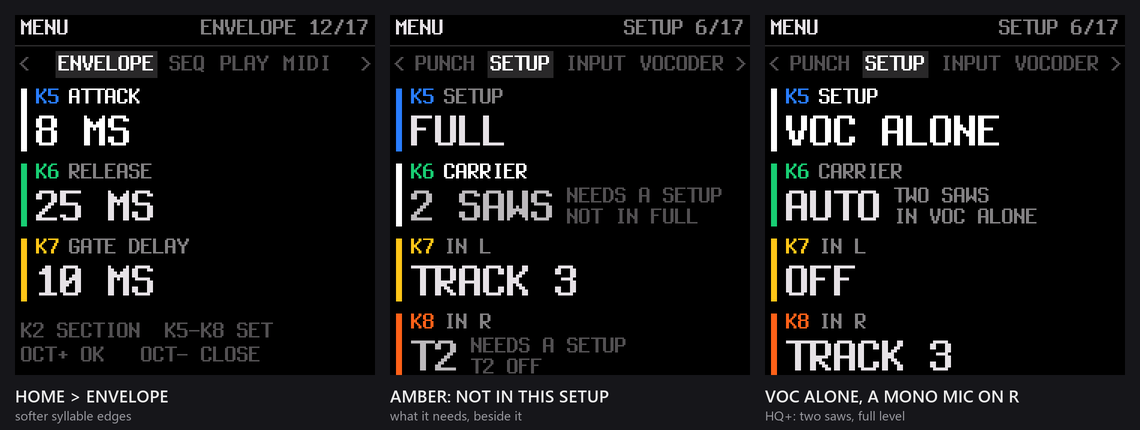
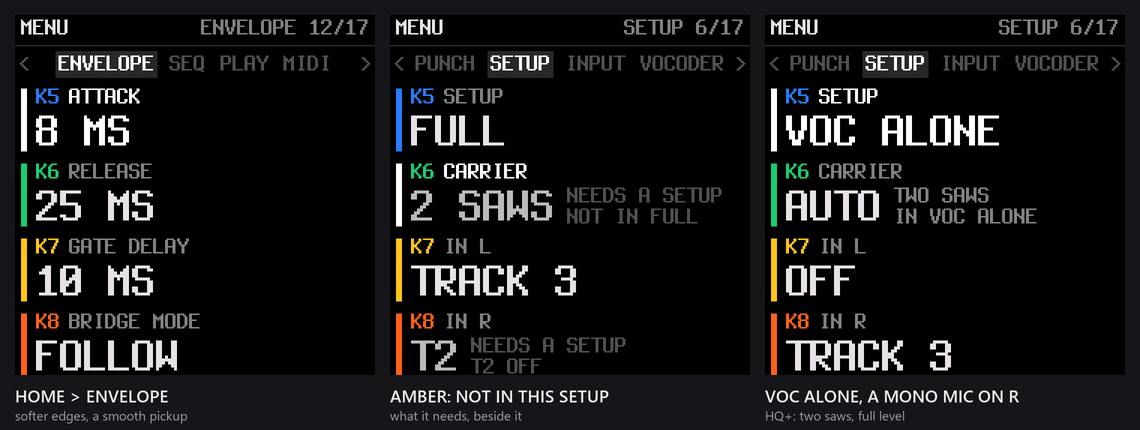
feat(mewcoder): ENVELOPE > BRIDGE MODE (FIXED / FOLLOW): a smooth pickup into each word
At a high BRIDGE the pauses played the carrier louder than the vocoded words, so each word arrived as a
drop, and the bridge left a short hole as the bands opened: a rough, choppy edge to the syllables.

FOLLOW keeps the pauses below the recent words (the bridge's gain moves only in a gap; BRIDGE is the most
it plays) and moves the pause value at the bands' own ATTACK / RELEASE times. On a steady chord and 39
syllables at BRIDGE 0 dB: the gaps from 11 dB over the words to 8 dB under them, the hole 2.7 -> 1.6 dB.

FIXED, the default, is bit-exact with d49a9ca at both rates. Kept in a spare vocset byte (the object stays
480 bytes; older saves load FIXED); the editor's Vocoder tab; console voc_brmode / voc_follow_q15; a host
test at both rates; VOCODER.md 2.5, the menus, troubleshooting; the ENVELOPE screenshot.

Changed region(s): [[0.0, 0.7256, 0.2456, 0.8767], [0.0307, 0.9372, 0.1535, 0.9977]]

diff --git a/web/editor.html b/web/editor.html
@@ -7882,7 +7882,8 @@ const OB = {
     ["colour", 65, "COLOUR", Array.from({ length: 11 }, (_, i) => [i, `${i * 10} %`]), 10],
     ["blend", 66, "BLEND", ["SUM", "FILL"], 0],
     ["eatt", 472, "ATTACK", ["3 MS", "5 MS", "8 MS", "12 MS", "20 MS", "30 MS"], 0],
-    ["erel", 473, "RELEASE", ["8 MS", "15 MS", "25 MS", "40 MS", "60 MS", "100 MS"], 0]],
+    ["erel", 473, "RELEASE", ["8 MS", "15 MS", "25 MS", "40 MS", "60 MS", "100 MS"], 0],
+    ["brmode", 477, "BRIDGE MODE", ["FIXED", "FOLLOW"], 0]],
   page: [["byp", 146, "BYPASS", ["OFF", "REPLACEMENT", "SPEECH"], 2], ["brsel", 147, "BRIDGING", ["OFF", "SUM", "INDIVIDUAL"], 1],
     ["addsel", 148, "ADDITION", ["OFF", "SUM", "INDIVIDUAL"], 1], ["actl", 149, "AUTOCONTROL", ["OFF", "ON"], 0],
     ["nzc", 151, "NOISE BLEND", Array.from({ length: 21 }, (_, i) => [100 - i * 5, `${i * 5} %`]).reverse(), 0]] },

diff --git a/firmware/src/smk_vocoder.h b/firmware/src/smk_vocoder.h
@@ -256,6 +256,7 @@ static struct {                          /* the analysis (core 0, fx.c mix_block
     uint8_t voiced;                      /* the detector's state (hysteresis) */
     int32_t acg_now;                     /* AUTOCONTROL's gain as the last block ended (Q12): each block ramps from it */
     uint8_t rest, rest_zero;             /* the bands resting (SILENCE > ANALYSIS); voc_ab buffers still to clear */
+    int32_t psm;                         /* BRIDGE MODE FOLLOW: the pause value, moved at the bands' times */
     uint32_t quiet;                      /* samples below THRESHOLD in a row */
     uint32_t blocks, uv_blocks, pause_blocks, rest_blocks;   /* (the console) */
 } voa;
@@ -281,6 +282,8 @@ static struct {                          /* the synthesis (track 3's core): the 
     int32_t agc_env, agc_g;              /* the carrier AGC: its level (mean |x|), its gain (Q15, 1.0 = 32767) */
     int32_t bk[VOC_NB], cf;              /* BRIDGE TONE as the last block ended: each band's bridge, COLOUR's factor (the
                                           * next block ramps from them: no zipper) */
+    int32_t bfa, lsp, lgap;              /* BRIDGE MODE FOLLOW: the bridge's gain taken off (Q15, 0: BRIDGE's own), the
+                                          * words' and the gaps' level (mean |x| a sample) */
     int32_t pk0, pk1, pk2;               /* the pink filter */
     int32_t sf;                          /* the SOFT noise's low-pass */
     uint32_t rnd;
@@ -305,6 +308,15 @@ static inline int32_t voc_sec(int32_t x, int32_t b0, int32_t *x1, int32_t *x2, i
 static const uint16_t VOC_EATT_K[VOC_EATT_N] = {VOC_ENV_ATT, 592, 370, 247, 148, 99};   /* 3, 5, 8, 12, 20, 30 ms */
 static const uint16_t VOC_EREL_K[VOC_EREL_N] = {VOC_ENV_REL, 198, 119, 74, 50, 30};     /* 8, 15, 25, 40, 60, 100 ms */
 static uint8_t voc_eatt, voc_erel;
+/* ENVELOPE > BRIDGE MODE (2026-11-11, the owner: "a rough, choppy edge to the syllables rather than a smooth pickup";
+ * vocoder-ui-spec.md §7n): 0 FIXED (the default: as before, bit for bit), 1 FOLLOW: (a) the pause value moves at the
+ * bands' own times (down at ATTACK into a word, up at RELEASE out of it: a crossfade with the bands, no hole), (b) the
+ * bridge's level follows the words': its gain (voc.bfa) moves only in a gap, keeping the gaps at most VOC_FOLLOW_K x the
+ * recent words' level (the vocoded output's |x|), BRIDGE the most it can be. Host-measured on a steady carrier and
+ * 39 syllables: BRIDGE 0 dB, the gaps 11 dB above the words before, 8 below with it; the hole as a word starts 2.7 ->
+ * 1.6 dB */
+static uint8_t voc_brmode;
+#define VOC_FOLLOW_K 11585                /* the gaps at most -3 dB x the words' mean |x| (Q15; ~ -8 dB as heard) */
 static inline int32_t voc_env_k(int32_t e, int32_t y, int32_t ka, int32_t kr)   /* voc_env with its times given */
 {
     int32_t t = y < 0 ? -y : y, d;
@@ -437,6 +449,13 @@ static void voc_analyse(uint32_t n)
         int32_t thr = VOC_THR_DB[voc_thr % VOC_THR_N] * 256, p;
         int32_t db = voa.envs > 0 ? ((voc_log2_q8((uint32_t)voa.envs) - 19 * 256) * 1541) >> 8 : -120 * 256;
         p = db <= thr ? 32767 : db >= thr + 24 * 256 ? 0 : (int32_t)(((int64_t)(thr + 24 * 256 - db) * 32767) / (24 * 256));
+        if (voc_brmode) {                                /* FOLLOW: the pause value at the bands' times (no hole) */
+            int32_t kk = (int32_t)(p < voa.psm ? eka : ekr) * (int32_t)(n / 2u);
+            voa.psm += (int32_t)(((int64_t)(p - voa.psm) * (kk > 65535 ? 65535 : kk)) >> 16);
+            p = voa.psm;
+        } else {
+            voa.psm = p;
+        }
         voc_ab[voc_aw].pause = p;
         voc_ab[voc_aw].speech = (uint8_t)(db > thr);
     }
@@ -520,6 +539,29 @@ static void voc_chan_block(uint32_t hq)
 
 
 /* the carrier block b (the track's scale, n even) becomes the vocoded block, in place */
+/* BRIDGE MODE FOLLOW, once a block after the synthesis: the words' level (the pause value near 0), the gaps' (near
+ * full), and the bridge's gain moved in a gap only (down ~1.6 % a block while the gaps are too loud, back up ~0.4 %) */
+static inline void voc_follow(uint32_t oa)       /* (oa: the block's sum of |x|, at most 2^23 x 32: a block's own
+                                                     * scale, only the words' and the gaps' ratio counts: no division) */
+{
+    int32_t a, pz = voc_ab[voc_aw ^ 1u].pause;
+    if (!voc_brmode) {
+        voc.bfa = 0;
+        return;
+    }
+    a = (int32_t)(oa >> 5);
+    if (pz < 4096) {
+        voc.lsp += (a - voc.lsp) >> 6;                   /* (~45 ms) */
+    } else if (pz > 28672) {
+        voc.lgap += (a - voc.lgap) >> 4;
+        if ((int64_t)voc.lgap * 32768 > (int64_t)voc.lsp * VOC_FOLLOW_K)
+            voc.bfa += (32767 - voc.bfa) >> 6;
+        else
+            voc.bfa -= voc.bfa >> 8;
+        if (voc.bfa > 32255)
+            voc.bfa = 32255;                             /* (at most -36 dB off) */
+    }
+}
 static void voc_process(int32_t *b, uint32_t n)
 {
     uint32_t i, j;
@@ -529,6 +571,9 @@ static void voc_process(int32_t *b, uint32_t n)
     uint32_t vm = voc_vmode % VV_N, br = vpg.brsel != VS_OFF && voc_bridge % VOC_BR_N != 0u;
     int32_t badd = br ? (int32_t)(((int64_t)voc_ab[voc_aw ^ 1u].pause * voc_br_q15(voc_bridge % VOC_BR_N) >> 15) *
                                   VOC_BR_Q15 >> 15) : 0;
+    uint32_t oa = 0;                                     /* (FOLLOW: the vocoded output's sum of |x|) */
+    if (voc_brmode)
+        badd = (int32_t)(((int64_t)badd * (32767 - voc.bfa)) >> 15);
     int32_t bk[VOC_NB], dbk[VOC_NB], cf, dcf, ag, dag, m = (int32_t)(n / 2u);
     uint32_t fill = voc_blend & 1u, mode, ramp = 0, any = 0;
     int32_t uvt = vm == VV_UNVOICED ? 32767 : vm == VV_VOICED ? 0 :                 /* the noise's share wanted */
@@ -611,6 +656,7 @@ static void voc_process(int32_t *b, uint32_t n)
                 cf += dcf;
             }
             d = voc_tick(c, i >> 1, bk, cf, mode, fill);
+            oa += (uint32_t)(d < 0 ? -d : d);
         }
         voc.oh[voc.ow++ & (VOC_ON - 1u)] = d;
         /* 2:1 up: the even sample the one VOC_HB back, the odd one the half-band between it and the next */
@@ -632,6 +678,7 @@ static void voc_process(int32_t *b, uint32_t n)
         }
     }
     voc.peak_out = pout;
+    voc_follow(oa);
 }
 
 /* HQ (SETUP VOC + DRUMS, VOC + SYNTH, VOC ALONE: vocoder-ui-spec.md §7i-2): voc_process with the synthesis bank at
@@ -669,6 +716,9 @@ static void __attribute__((noinline)) voc_process_hq(int32_t *b, uint32_t n)   /
     uint32_t vm = voc_vmode % VV_N, br = vpg.brsel != VS_OFF && voc_bridge % VOC_BR_N != 0u;
     int32_t badd = br ? (int32_t)(((int64_t)voc_ab[voc_aw ^ 1u].pause * voc_br_q15(voc_bridge % VOC_BR_N) >> 15) *
                                   VOC_BR_Q15 >> 15) : 0;
+    uint32_t oa = 0;                                     /* (FOLLOW: the vocoded output's sum of |x|) */
+    if (voc_brmode)
+        badd = (int32_t)(((int64_t)badd * (32767 - voc.bfa)) >> 15);
     int32_t bk[VOC_NB], dbk[VOC_NB], cf, dcf, ag, dag, m = (int32_t)n;
     uint32_t fill = voc_blend & 1u, mode, ramp = 0, any = 0;
     int32_t uvt = vm == VV_UNVOICED ? 32767 : vm == VV_VOICED ? 0 :                 /* the noise's share wanted */
@@ -765,6 +815,7 @@ static void __attribute__((noinline)) voc_process_hq(int32_t *b, uint32_t n)   /
             }
             d += (int32_t)(((int64_t)VOC_VS(hf >> 4) * VOC_MIX_Q15[voc_hf % VOC_MIX_N]) >> 15);
         }
+        oa += (uint32_t)(d < 0 ? -d : d);
         x = d;
         if (dg)
             x += (int32_t)(((int64_t)VOC_VS(voc_in[i]) * dg) >> 15);   /* DRY */
@@ -776,6 +827,7 @@ static void __attribute__((noinline)) voc_process_hq(int32_t *b, uint32_t n)   /
         b[i] = x;
     }
     voc.peak_out = pout;
+    voc_follow(oa);
 }
 
 /* voice.c track_render, track 3, at its start: the state to render this block. A change fades the old state out first

diff --git a/firmware/src/ui_menu.c b/firmware/src/ui_menu.c
@@ -51,8 +51,9 @@ enum { MI_COLOR, MI_ZOOM,
                                                     * carrier's; kept, project.c) */
        MI_VTILT, MI_VCOL, MI_VBLEND, MI_VNORM,     /* BRIDGE TONE > TILT, COLOUR, BLEND, NORMAL (the whole output's: the
                                                     * VSM201's weights; smk_vocoder.h; kept, project.c) */
-       MI_VEATT, MI_VEREL, MI_VGDEL,               /* ENVELOPE > ATTACK, RELEASE (the bands' envelopes), GATE DELAY (the
-                                                    * external carrier's gate); kept, project.c */
+       MI_VEATT, MI_VEREL, MI_VGDEL, MI_VBRM,      /* ENVELOPE > ATTACK, RELEASE (the bands' envelopes), GATE DELAY (the
+                                                    * external carrier's gate), BRIDGE MODE (smk_vocoder.h voc_brmode);
+                                                    * kept, project.c */
 #endif
 #endif
        MI_ADV, MI_DPREV,
@@ -90,7 +91,7 @@ static const char *const MI_NAME[MI_COUNT] = {"COLOR", "ZOOM",
                                               "SETUP", "CARRIER", "IN L", "IN R", "TRIM L", "TRIM R",
                                               "MODE", "LEVEL", "DRY", "HF", "CUTOFF", "RESO", "VOICE", "NOISE",
                                               "BRIDGE", "THRESHOLD", "AGC", "MOD WHEEL", "TILT", "COLOUR", "BLEND", "RESPONSE",
-                                              "ATTACK", "RELEASE", "GATE DELAY",
+                                              "ATTACK", "RELEASE", "GATE DELAY", "BRIDGE MODE",
 #endif
 #endif
                                               "STEP ADVANCE", "DRUM PREVIEW",
@@ -367,6 +368,9 @@ UI_SMALL static const char *mi_value(uint32_t i, uint16_t *c)
         str_cpy(b + str_len(b), " DB", 4);
         return b;
     }
+    case MI_VBRM:                                     /* FIXED, FOLLOW (dim: no bridging: the same) */
+        *c = VOC_AUDIO_ON && voc_bridge ? C_HI : C_DIM;
+        return voc_brmode ? "FOLLOW" : "FIXED";
     case MI_VGDEL: {                                  /* the external carrier's gate held after the notes, 0 .. 50 ms
                                                        * (dim: no channel to CARRIER) */
         static const char *const N[11] = {"0 MS", "5 MS", "10 MS", "15 MS", "20 MS", "25 MS", "30 MS", "35 MS",
@@ -583,7 +587,8 @@ UI_SMALL static void draw_menu(void)
            voc_vmode * 1000159u + voc_pink * 1000171u + voc_bridge * 1000183u + voc_thr * 1000187u +
            voc_tilt * 1000193u + voc_colour * 1000199u + voc_blend * 1000211u + voc_agc * 1000213u +
            voc_norm * 1000231u + voc_emsel * 1000249u + voc_mwa * 1000253u + voc_setup * 1000273u +
-           voc_inl * 1000289u + voc_inr * 1000291u + voc_gdel * 1000303u + voc_eatt * 1000313u + voc_erel * 1000333u + voc_saws * 1000357u;
+           voc_inl * 1000289u + voc_inr * 1000291u + voc_gdel * 1000303u + voc_eatt * 1000313u + voc_erel * 1000333u + voc_saws * 1000357u +
+           voc_brmode * 1000409u;
     sig += voc_trim[0] * 1000363u + voc_trim[1] * 1000367u;
     if (ui.menu == 1 && sec == MS_INPUT) {          /* (the meters move: a frame each time they do) */
         mtr_update();
@@ -919,6 +924,9 @@ UI_SMALL static void mi_set(uint32_t i, int32_t s)
         voc_trim[i == MI_VTRR] = (uint8_t)(v < 0 ? 0 : v > (int32_t)VOC_TRIM_N - 1 ? (int32_t)VOC_TRIM_N - 1 : v);
         break;
     }
+    case MI_VBRM:                                      /* right FOLLOW, left FIXED; OCT+ toggles */
+        voc_brmode = (uint8_t)(s > 0 ? 1u : s < 0 ? 0u : !voc_brmode);
+        break;
     case MI_VGDEL: {                                   /* 0 .. 50 ms in 5 (stops at the ends); OCT+ back to 0 */
         int32_t v = s ? (int32_t)(voc_gdel % 11u) + s : 0;
         voc_gdel = (uint8_t)(v < 0 ? 0 : v > 10 ? 10 : v);

diff --git a/tests/smk_vocoder_test.c b/tests/smk_vocoder_test.c
@@ -20,6 +20,9 @@
  *              three-note chord levelled to the ceiling (VOC_AGC_TQ)
  *   zipper     a voice gated as speech goes, BRIDGE 0 dB, TILT -3: the output above 9 kHz (the bank stops at 6.78) > 60 dB
  *              under it (the bridge and COLOUR ramped over a block: 62.7 dB; stepped block by block they made 54.5)
+ *   FOLLOW     BRIDGE MODE (vocoder-ui-spec.md §7n): a vowel as syllables (250 ms on, 150 off) on a three-note chord,
+ *              BRIDGE 0 dB: FIXED's gaps louder than its words (as before), FOLLOW's gaps 4 dB or more under its words, its
+ *              words within 1 dB of FIXED's; both rates (22.05, HQ)
  *   the track  MODE AUDIO: the voice itself, at a voice's full scale; a change of state (engine -> dry -> engine) fades out
  *              and in: no step over 200 a sample, settled within 15 blocks
  * 44.1 kHz, blocks of 32 as the mix. */
@@ -182,6 +185,25 @@ static double vowel(uint32_t i)                   /* harmonics of 150 Hz, -12 dB
     for (h = 1; 150 * h < 4000; h++)
         s += sin(2.0 * M_PI * 150.0 * h * i / FS) / ((double)h * h);
     return 9000.0 * s;
+}
+static double vsyl(uint32_t i)                    /* syllables: 8 ms up, 250 ms on, 30 ms down, gaps to 400 ms */
+{
+    double ph = fmod((double)i / FS, 0.4), g = ph < 0.008 ? ph / 0.008 : ph < 0.25 ? 1.0 : ph < 0.28 ? (0.28 - ph) / 0.03 : 0.0;
+    return g * 0.5 * vowel(i);
+}
+/* the output's rms in the words (40 .. 240 ms of each 400) and in the gaps (320 .. 390 ms) after the first 300 ms, dB */
+static void words_gaps(uint32_t n, double *w, double *g)
+{
+    double sw = 0, sg = 0;
+    uint32_t i, mw = 0, mg = 0;
+    for (i = (uint32_t)(FS * 0.3); i < n; i++) {
+        double ph = fmod((double)i / FS, 0.4);
+        if (ph >= 0.04 && ph < 0.24)
+            sw += outbuf[i] * outbuf[i], mw++;
+        else if (ph >= 0.32 && ph < 0.39)
+            sg += outbuf[i] * outbuf[i], mg++;
+    }
+    *w = db(sqrt(sw / mw)), *g = db(sqrt(sg / mg));
 }
 static double vnoise(uint32_t i)
 {
@@ -556,6 +578,31 @@ int main(void)
         run(0.1, v1k, saw110);
         check("page: AUTOCONTROL off, back to 1.0", voc_acg == 4096);
         voc_norm = 0;
+    }
+    {   /* BRIDGE MODE FOLLOW (2026-11-11): the gaps under the words, the words as FIXED's */
+        uint32_t hq, n;
+        for (hq = 0; hq < 2u; hq++) {
+            double fw, fg, ow, og;
+            char what[128];
+            voc_bridge = VOC_BR_N - 1u, vpg.brsel = VS_SUM;
+            voc_brmode = 0;
+            reset();
+            n = hq ? run_hq(1.5, vsyl, chord3) : run(1.5, vsyl, chord3);
+            words_gaps(n, &fw, &fg);
+            voc_brmode = 1;
+            reset();
+            n = hq ? run_hq(1.5, vsyl, chord3) : run(1.5, vsyl, chord3);
+            words_gaps(n, &ow, &og);
+            voc_brmode = 0;
+            printf("   %s BRIDGE 0 dB: FIXED words %.1f gaps %.1f dB, FOLLOW words %.1f gaps %.1f dB\n", hq ? "HQ" : "22.05",
+                   fw, fg, ow, og);
+            snprintf(what, sizeof what, "FOLLOW (%s): the gaps 4 dB or more under the words (FIXED: %+.1f, FOLLOW: %+.1f dB)",
+                     hq ? "HQ" : "22.05", fg - fw, og - ow);
+            check(what, og - ow <= -4.0 && fg > fw);
+            snprintf(what, sizeof what, "FOLLOW (%s): the words as FIXED's (%+.2f dB)", hq ? "HQ" : "22.05", ow - fw);
+            check(what, fabs(ow - fw) < 1.0);
+        }
+        voc_bridge = 0, vpg.brsel = VS_SUM;
     }
     {   /* HQ (2026-11-11): the 44.1 kHz synthesis at the 22.05 kHz one's level, voiced and unvoiced (its band sum was
          * truncated to 32 bits: noise on the unit, ~-10 dB here) */

diff --git a/firmware/src/project.c b/firmware/src/project.c
@@ -995,8 +995,9 @@ typedef struct {
                                           * 2026-11-02: old saves load) */
     uint8_t eatt, erel, trl, trr;        /* ENVELOPE > ATTACK, RELEASE (2026-11-11; an object of 472 bytes: 0, as before);
                                           * INPUT > TRIM L, TRIM R as dB, signed (the bytes spare before them: 0 dB) */
-    uint8_t mixv, rsv3[3];               /* 1: DRY and HF (cur, sec[]) on the 12-step scale (smk_vocoder.h VOC_MIX_N);
-                                          * an object of 476 bytes: the old 5-step scale, mapped (VOC_MIX_OLD) */
+    uint8_t mixv, brmode, rsv3[2];       /* 1: DRY and HF (cur, sec[]) on the 12-step scale (smk_vocoder.h VOC_MIX_N);
+                                          * an object of 476 bytes: the old 5-step scale, mapped (VOC_MIX_OLD);
+                                          * ENVELOPE > BRIDGE MODE (2026-11-11: a spare byte, 0: FIXED) */
 } vocset_t;
 #define VOCSET_V1 64u                    /* (the object's size before BRIDGE TONE) */
 #define VOCSET_V2 68u                    /* (.. before NORMAL) */
@@ -1085,6 +1086,7 @@ static int vocset_take(const uint8_t *b, uint32_t n)
         voc_emsel = (uint8_t)(s.emsel & voc_norm);
         voc_mwa = (uint8_t)(s.rsv[0] % VOC_MWA_N);
         voc_eatt = (uint8_t)(s.eatt % VOC_EATT_N), voc_erel = (uint8_t)(s.erel % VOC_EREL_N);   /* (older: 0, 0) */
+        voc_brmode = (uint8_t)(s.brmode & 1u);         /* (older: FIXED) */
         {                                              /* TRIM L / R: signed dB, -18 .. +6 (older: 0 dB) */
             int32_t tl = (int8_t)s.trl, tr = (int8_t)s.trr;
             tl = tl < -(int32_t)VOC_TRIM_0 ? -(int32_t)VOC_TRIM_0 : tl > (int32_t)(VOC_TRIM_N - 1u - VOC_TRIM_0) ? (int32_t)(VOC_TRIM_N - 1u - VOC_TRIM_0) : tl;
@@ -1127,6 +1129,7 @@ static void vocset_fill(void)                      /* the object as it is now (a
     vocset.trl = (uint8_t)(int8_t)((int32_t)(voc_trim[0] % VOC_TRIM_N) - (int32_t)VOC_TRIM_0);
     vocset.trr = (uint8_t)(int8_t)((int32_t)(voc_trim[1] % VOC_TRIM_N) - (int32_t)VOC_TRIM_0);
     vocset.mixv = 1;
+    vocset.brmode = (uint8_t)(voc_brmode & 1u);
 }
 static void vocset_save(void)
 {

diff --git a/firmware/src/console.c b/firmware/src/console.c
@@ -286,6 +286,8 @@ static void con_status(void)
     con_kv("voc_trim_l", (int32_t)(voc_trim[0] % VOC_TRIM_N) - (int32_t)VOC_TRIM_0);   /* INPUT > TRIM L, R (dB) */
     con_kv("voc_trim_r", (int32_t)(voc_trim[1] % VOC_TRIM_N) - (int32_t)VOC_TRIM_0);
     con_kv("voc_act_db10", voc_acg > 0 ? (((int32_t)voc_log2_q8((uint32_t)voc_acg) - 12 * 256) * 1541 >> 8) * 10 / 256 : -999);   /* (AUTOCONTROL's gain, dB x 10) */
+    con_kv("voc_brmode", voc_brmode);                    /* ENVELOPE > BRIDGE MODE: 0 FIXED, 1 FOLLOW */
+    con_kv("voc_follow_q15", 32767 - voc.bfa);           /* (FOLLOW: the bridge's gain now, Q15) */
     con_kv("voc_cur", voc_cur);                          /* the audio track's state: 0 engine, 1 AUDIO, 2 VOCODER */
     con_kv("voc_blocks", (int32_t)voc.blocks);           /* blocks vocoded since the last status */
     con_kv("voc_peak_in", voa.peak_in);                  /* the voice's |peak|, Q15, since the last status */

diff --git a/VOCODER.md b/VOCODER.md
@@ -19,7 +19,7 @@ in SLOOP stays: the four tracks, the sequencer, the punch-ins, the multichannel 
 | **USB audio out** (to the computer) | HOME > USB > USB LAYOUT: **STEREO** (the mix; 44.1 or 48 kHz, HOME > AUDIO > USB RATE), or 6 channels, 24 bit, **48 kHz** (default, resampled on the keyboard) or **44.1 kHz** (the lightest; HOME > USB > STEM RATE): **SYNTHS+RET** (T1, T2, T3, the drums, the effects return L and R), **DRUMS+RET** (kick, snare, hats, percussion, the return L and R), **ALL DRY** (T1, T2, T3, kick, snare, hats and percussion) |
 | **The vocoder** | 20 channels at the Sennheiser VSM201's centres, 145 Hz to 6.78 kHz, each a 4th-order band-pass. The voice analysed at 22.05 kHz; the output at 22.05 kHz in FULL, **44.1 kHz (HQ)** in the other SETUPs |
 | **The carrier** | HOME > SETUP > CARRIER: the built-in saw, one or two a note (**AUTO**, **1 SAW**, **2 SAWS**), played from the keys, the sequencer or MIDI on track 3's channel; or **EXT L** / **EXT R**: an external synth on that input, gated by track 3's notes. Section 2.4 |
-| **Shaping** | ENVELOPE (ATTACK 3-30 ms, RELEASE 8-100 ms, GATE DELAY); voiced / unvoiced detection with a noise source (WHITE, PINK, SOFT); the speech addition (HF, OFF or −30 .. 0 dB); silence bridging and BRIDGE TONE; AUTOCONTROL (the voice's level, steadied); the carrier's AGC; RESPONSE (FLAT, the VSM201's NORMAL, EMPHASIS); per channel on the vocoder page: EMPHASIS, ADDITION, BRIDGING, mute |
+| **Shaping** | ENVELOPE (ATTACK 3-30 ms, RELEASE 8-100 ms, GATE DELAY, BRIDGE MODE FIXED / FOLLOW); voiced / unvoiced detection with a noise source (WHITE, PINK, SOFT); the speech addition (HF, OFF or −30 .. 0 dB); silence bridging and BRIDGE TONE; AUTOCONTROL (the voice's level, steadied); the carrier's AGC; RESPONSE (FLAT, the VSM201's NORMAL, EMPHASIS); per channel on the vocoder page: EMPHASIS, ADDITION, BRIDGING, mute |
 | **Left out to make room** | the built-in samples (your own samples work); the TEXTURE, DIGITAL, LOFI, VOICE, TRIO and NOISE engines; the delay runs at 22.05 kHz. For those: the Multichannel USB audio build |
 
 ## 1. Getting sound in
@@ -186,6 +186,13 @@ The row always tells the truth: setting IN L or IN R to CARRIER by hand shows EX
 | **ATTACK** | 3, 5, 8, 12, 20, 30 ms | how fast each of the 20 bands opens when a sound starts |
 | **RELEASE** | 8, 15, 25, 40, 60, 100 ms | how fast it closes |
 | **GATE DELAY** | 0 .. 50 ms (5 ms steps) | an external carrier's gate held open after the last note (2.4) |
+| **BRIDGE MODE** | FIXED, FOLLOW | how SILENCE > BRIDGE fills the pauses (below) |
+
+**BRIDGE MODE.** **FIXED** (the default, as before): in a pause the carrier plays at BRIDGE's level, whatever level
+your words came in at; turned up, the pauses can be louder than the words, and each word then starts as a drop, a
+rough, choppy edge. **FOLLOW**: the bridge keeps the pauses below your recent words (about 8 dB under them; BRIDGE is
+the most it plays) and hands over to each word at ATTACK's speed and back at RELEASE's, so a word picks up smoothly.
+With BRIDGE OFF, BRIDGE MODE does nothing (dim).
 
 The defaults are the VSM201's fast, articulate response. If syllable edges sound sharp or harsh, slow them down:
 
@@ -266,6 +273,7 @@ The small tick marks **−10 dBFS**: aim your voice's loud peaks there (AIM −1
 | ENVELOPE | ATTACK | 3 ms (3 .. 30) | how fast the bands open (2.5) |
 | | RELEASE | 8 ms (8 .. 100) | how fast they close |
 | | GATE DELAY | 0 ms (0 .. 50) | an external carrier's gate held after the last note |
+| | BRIDGE MODE | FIXED, FOLLOW | FOLLOW: the pauses below your words, a smooth pickup into each word (2.5) |
 
 Everything here is also on the vocoder page or the web editor's **Vocoder** tab.
 
@@ -435,6 +443,7 @@ on the keyboard.
 | Drums or T1 / T2 silent | SETUP: VOC + DRUMS turns T1 and T2 off, VOC + SYNTH the drums, VOC ALONE all three. FULL plays everything |
 | An instrument plays on T1 / T2 | IN L or IN R is on T1 or T2 (only in a SETUP that has the track off) |
 | Harsh, sharp syllable edges | the input too hot: HOME > INPUT, the meter's peaks near 0 dBFS or CLIP: TRIM down to the −10 tick (or lower it at the computer); ENVELOPE > ATTACK 8 ms, RELEASE 25 ms or slower |
+| A rough, choppy edge to each word (BRIDGE up) | the pauses louder than the words: ENVELOPE > BRIDGE MODE: FOLLOW; or BRIDGE lower |
 | Tearing or raw synth in the pauses (external carrier, BRIDGE up) | the synth clipping on its way in: HOME > INPUT, its side's meter: TRIM it down, or lower it in the DAW; SILENCE > AGC on |
 | External carrier silent | CARRIER EXT L / EXT R; the synth's audio on that side; play track 3: the gate opens only while a track 3 note is held |
 | External carrier's notes cut short | ENVELOPE > GATE DELAY up (the synth comes back through the DAW late) |

diff --git a/.github/README.md b/.github/README.md
@@ -29,7 +29,7 @@ its own, and the vocoder runs at **44.1 kHz (HQ)**. [How it all works](/VOCODER.
 
 - **An audio track:** track 3 plays the computer's audio (your microphone, an instrument, any recording) dry or vocoded.
 - **The vocoder:** 20 channels, per-channel emphasis, speech addition, silence bridging, voiced / unvoiced detection,
-  ATTACK and RELEASE for smoother syllables.
+  ATTACK and RELEASE for smoother syllables, BRIDGE MODE FOLLOW for a smooth pickup into each word.
 - **The carrier:** saws played from the keys and the sequencer (two a note in VOC ALONE), or your own synth. Play
   chords: that is the classic sound.
 - **The vocoder page:** the 20 channels on the knobs and pads (PATCH on the tracks screen).
